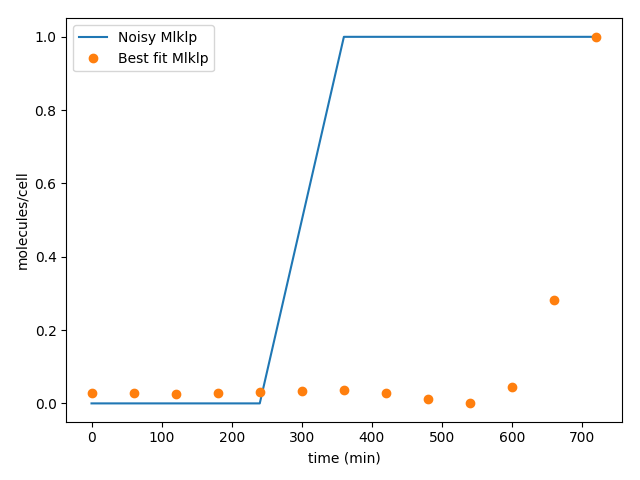
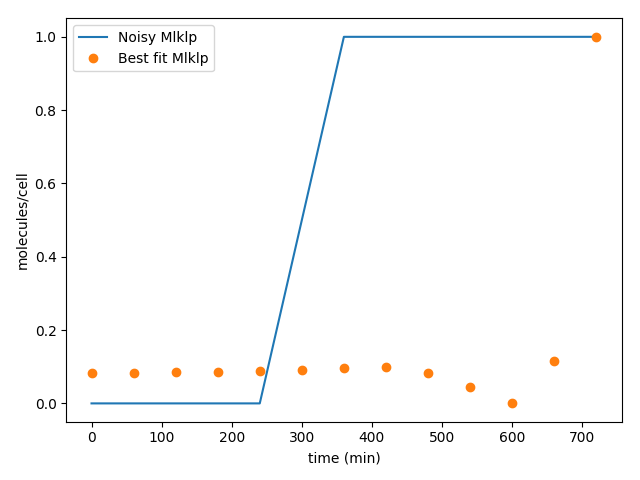
necr results

diff --git a/simplepso/examples/necro_pso.py b/simplepso/examples/necro_pso.py
@@ -143,7 +143,7 @@ def run_example():
     # We also must set bounds. This can be a single scalar or an array of len(start_position)
     optimizer.set_bounds(parameter_range=3)
     optimizer.set_speed(speed_min=-.5, speed_max=.5)
-    optimizer.run(num_particles=50, num_iterations=100)
+    optimizer.run(num_particles=50, num_iterations=1000)
     print('whatever')
     if plot:
         display(start_position, optimizer.best)
